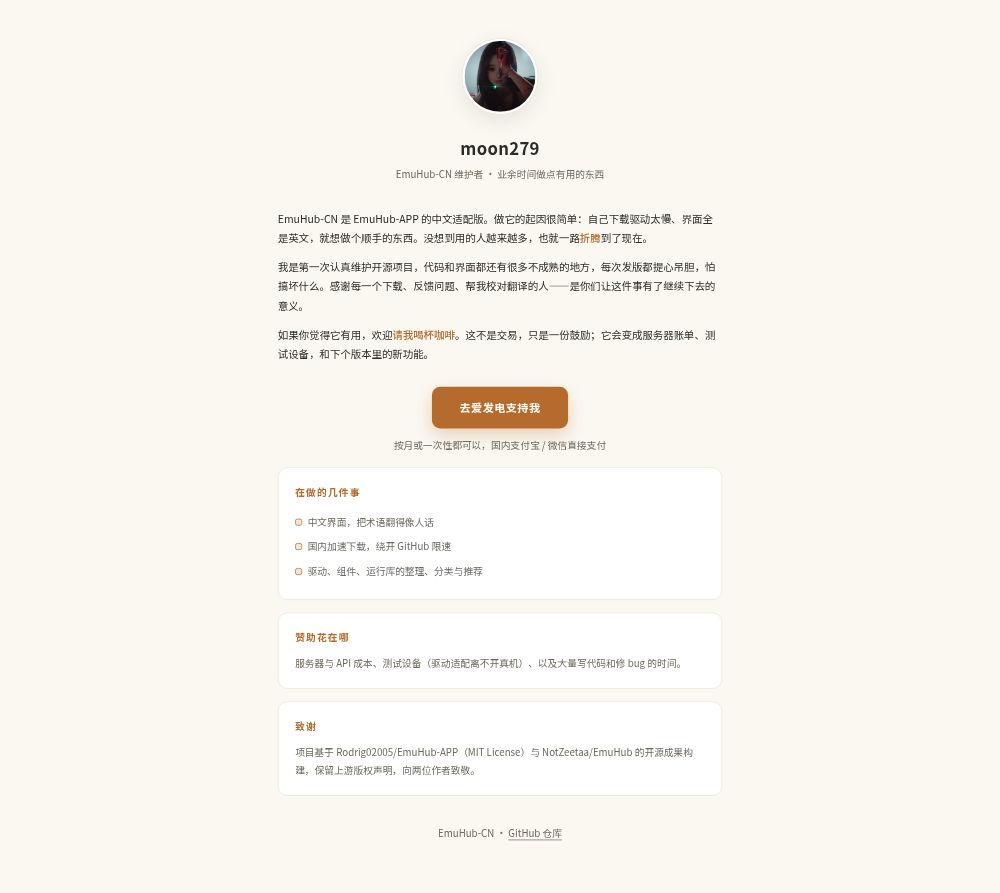
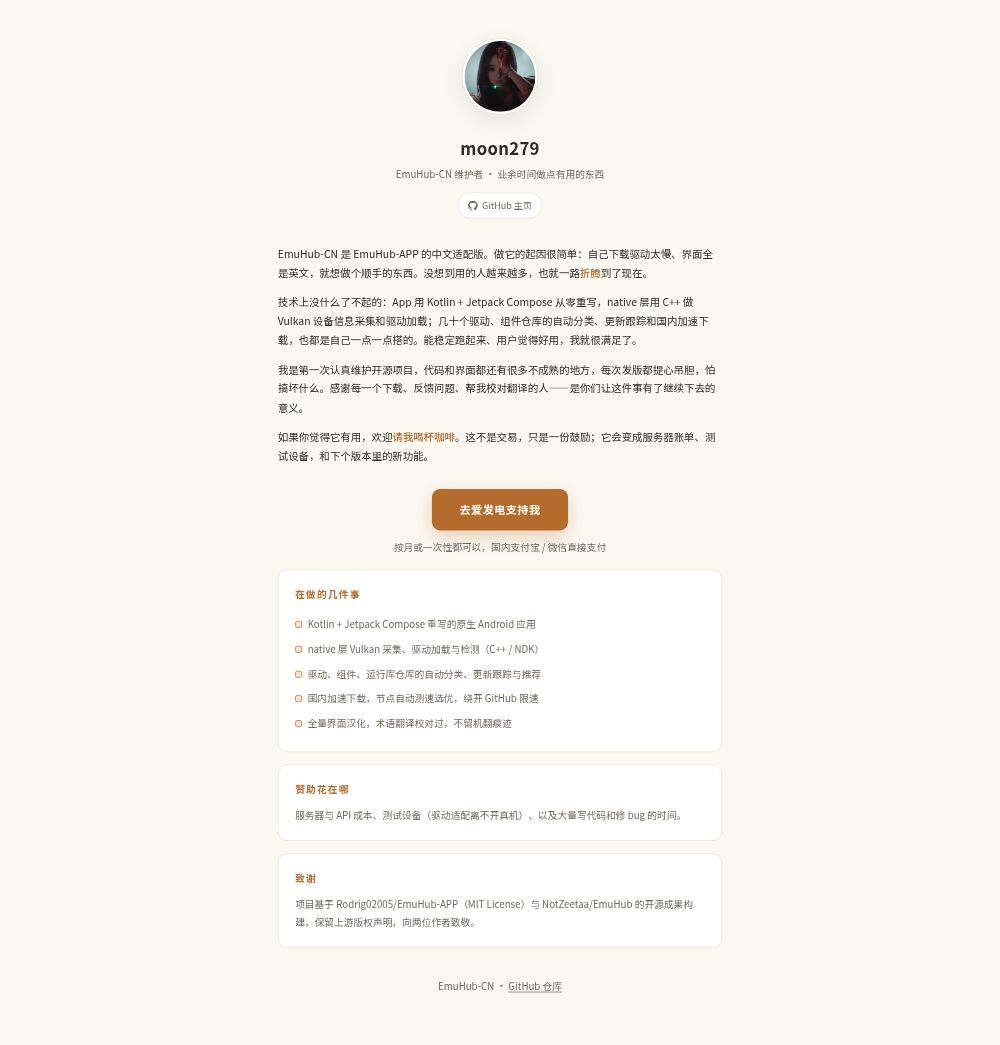
style: 赞助页补技术自述与个人主页入口
- 名片区增加 GitHub 主页胶囊链接
- 独白新增技术段：Kotlin/Compose 重写、native C++ Vulkan 同步与驱动加载、
  仓库自动分类/更新跟踪/国内加速
- 在做的几件事改为技术清单，突出项目实际能力

diff --git a/docs/sponsor.html b/docs/sponsor.html
@@ -37,6 +37,16 @@
   }
   .name { font-size: 24px; font-weight: 700; margin: 18px 0 4px; letter-spacing: .02em; }
   .tagline { font-size: 14px; color: var(--ink-dim); }
+  .home-link {
+    display: inline-flex; align-items: center; gap: 6px;
+    margin-top: 12px; padding: 6px 14px;
+    font-size: 13px; color: var(--ink-dim);
+    border: 1px solid var(--line); border-radius: 999px;
+    text-decoration: none; background: var(--card);
+    transition: border-color .15s, color .15s;
+  }
+  .home-link:hover { border-color: var(--accent); color: var(--accent); }
+  .home-link svg { width: 14px; height: 14px; }
 
   /* 独白 */
   .monologue {
@@ -103,10 +113,15 @@
     <img class="avatar" src="assets/avatar.png" alt="moon279 头像">
     <div class="name">moon279</div>
     <div class="tagline">EmuHub-CN 维护者 · 业余时间做点有用的东西</div>
+    <a class="home-link" href="https://github.com/mihsian77" target="_blank" rel="noopener">
+      <svg viewBox="0 0 16 16" fill="currentColor" aria-hidden="true"><path d="M8 0C3.58 0 0 3.58 0 8c0 3.54 2.29 6.53 5.47 7.59.4.07.55-.17.55-.38 0-.19-.01-.82-.01-1.49-2.01.37-2.53-.49-2.69-.94-.09-.23-.48-.94-.82-1.13-.28-.15-.68-.52-.01-.53.63-.01 1.08.58 1.23.82.72 1.21 1.87.87 2.33.66.07-.52.28-.87.51-1.07-1.78-.2-3.64-.89-3.64-3.95 0-.87.31-1.59.82-2.15-.08-.2-.36-1.02.08-2.12 0 0 .67-.21 2.2.82.64-.18 1.32-.27 2-.27s1.36.09 2 .27c1.53-1.04 2.2-.82 2.2-.82.44 1.1.16 1.92.08 2.12.51.56.82 1.27.82 2.15 0 3.07-1.87 3.75-3.65 3.95.29.25.54.73.54 1.48 0 1.07-.01 1.93-.01 2.2 0 .21.15.46.55.38A8.01 8.01 0 0 0 16 8c0-4.42-3.58-8-8-8z"/></svg>
+      GitHub 主页
+    </a>
   </div>
 
   <div class="monologue">
     <p>EmuHub-CN 是 EmuHub-APP 的中文适配版。做它的起因很简单：自己下载驱动太慢、界面全是英文，就想做个顺手的东西。没想到用的人越来越多，也就一路<em>折腾</em>到了现在。</p>
+    <p>技术上没什么了不起的：App 用 Kotlin + Jetpack Compose 从零重写，native 层用 C++ 做 Vulkan 设备信息采集和驱动加载；几十个驱动、组件仓库的自动分类、更新跟踪和国内加速下载，也都是自己一点一点搭的。能稳定跑起来、用户觉得好用，我就很满足了。</p>
     <p>我是第一次认真维护开源项目，代码和界面都还有很多不成熟的地方，每次发版都提心吊胆，怕搞坏什么。感谢每一个下载、反馈问题、帮我校对翻译的人——是你们让这件事有了继续下去的意义。</p>
     <p>如果你觉得它有用，欢迎<em>请我喝杯咖啡</em>。这不是交易，只是一份鼓励；它会变成服务器账单、测试设备，和下个版本里的新功能。</p>
   </div>
@@ -119,9 +134,11 @@
   <div class="card">
     <h2>在做的几件事</h2>
     <ul>
-      <li>中文界面，把术语翻得像人话</li>
-      <li>国内加速下载，绕开 GitHub 限速</li>
-      <li>驱动、组件、运行库的整理、分类与推荐</li>
+      <li>Kotlin + Jetpack Compose 重写的原生 Android 应用</li>
+      <li>native 层 Vulkan 采集、驱动加载与检测（C++ / NDK）</li>
+      <li>驱动、组件、运行库仓库的自动分类、更新跟踪与推荐</li>
+      <li>国内加速下载，节点自动测速选优，绕开 GitHub 限速</li>
+      <li>全量界面汉化，术语翻译校对过，不留机翻痕迹</li>
     </ul>
   </div>
 
